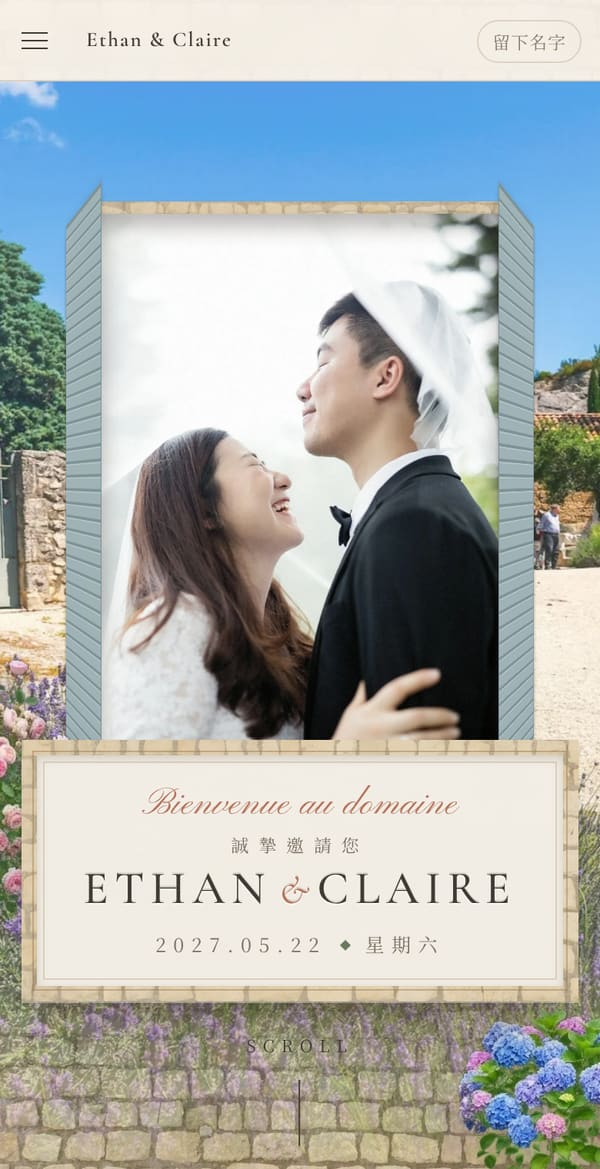
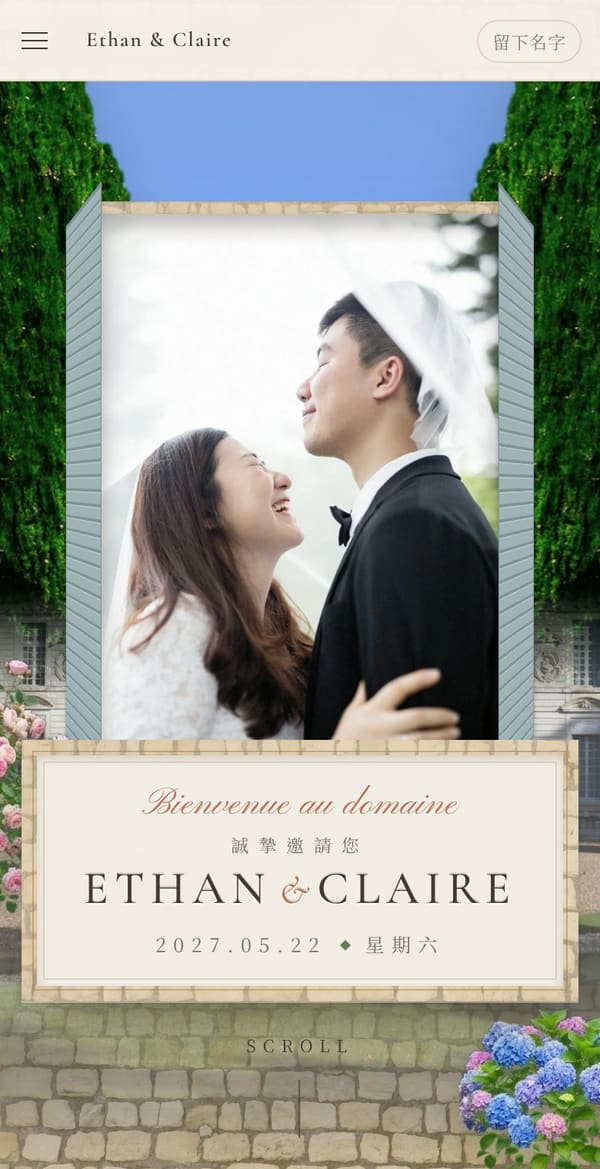
法式莊園：hero 改成遠景的莊園立面、兩側加柏樹；開場文字改放灰泥牌
- 遠景換成 Shalev Cohen 的莊園前庭照片（manor.webp），取代南法小鎮廣場
- 從原本小鎮照片裡把兩棵柏樹去背（cypress.webp），放在 hero 左右兩側
- 開場木門推開後，門後也是同一座莊園
- 開場的名字放進一塊灰泥牌，並讓莊園的門多停 1.1 秒，字淡入得更早，讀得完再往裡走
- README 素材表更新，移除不再使用的 village.webp

Claude-Session: https://claude.ai/code/session_01WAMHDvEXzDVD9sEfoDVAdb

Changed region(s): [[0.0, 0.0616, 1.0, 0.8931], [0.0, 0.7083, 0.9, 0.9855]]

diff --git a/public/css/openers/door.css b/public/css/openers/door.css
@@ -81,9 +81,9 @@
 .dr-gothic{--dr-accent:#7a5a3a;}
 /* ---- 莊園：全部是真的照片（見 README〈法式莊園的照片素材〉） ----
    法國南方小鎮的街角：石灰岩牆上一扇灰藍的木門、旁邊一扇百葉窗（eliza cemme／Unsplash）；
-   門從照片裡分離成自己的一層，推開之後門後就是大廳那一片南法小鎮的石頭廣場（Rich Martello／Unsplash） */
+   門從照片裡分離成自己的一層，推開之後門後就是大廳那一座莊園的前庭（Shalev Cohen／Unsplash） */
 .dr-manor{--dr-accent:#9a5a40;background:#cdbb9c;}
-.dr-manor .dr-land{background:#e8e2d4 url(../../img/manor/village.webp) 50% 55%/cover no-repeat;}
+.dr-manor .dr-land{background:#e8e2d4 url(../../img/manor/manor.webp) 50% 42%/cover no-repeat;}
 /* 兩旁：石灰岩的顏色，邊上暗一點；門那張照片的邊淡進來 */
 .dr-manor .dr-blur{position:absolute;inset:0;background:radial-gradient(70% 90% at 50% 45%,#e4d7be,#cdbb9a 70%,#b3a07f);}
 /* 推開門：陽光只輕輕亮一下，看得到門後的中庭 */
@@ -94,8 +94,8 @@
   -webkit-mask-image:linear-gradient(90deg,transparent,#000 7%,#000 93%,transparent);
           mask-image:linear-gradient(90deg,transparent,#000 7%,#000 93%,transparent);}
 @media (min-aspect-ratio:3/4){.dr-manor .dr-photo{height:100%;}}
-/* 門洞後面：南法小鎮的石頭廣場（跟 .dr-land 同一張，門推開就看得到） */
-.dr-manor .dr-behind{position:absolute;background:#e8e2d4 url(../../img/manor/village.webp) 40% 55%/auto 110% no-repeat;}
+/* 門洞後面：莊園的前庭與立面（跟 .dr-land 同一張，門推開就看得到正中間那一棟） */
+.dr-manor .dr-behind{position:absolute;background:#e8e2d4 url(../../img/manor/manor.webp) 50% 70%/auto 125% no-repeat;}
 .dr-manor .dr-scene{position:absolute;inset:0;background:url(../../img/manor/door-scene.webp) center/100% 100% no-repeat;}
 /* 木門：把手在左邊，繞著右邊的鉸鍊往裡推開 */
 .dr-manor .dr-opening{perspective:1600px;}
@@ -105,8 +105,16 @@
 .dr-host.dr-manor.is-open .dr-iron{transform:rotateY(-82deg);filter:brightness(.82);animation:dr-unlatch .35s ease;}
 /* 手機直立：門只佔下半部，字放到上面的天空 */
 @media (max-aspect-ratio:3/4){.dr-text{top:28%;}}
-/* 莊園的門在手機上從畫面 29% 開到 85%：字放進門洞的光裡，不要壓到門楣 */
-@media (max-aspect-ratio:3/4){.dr-manor .dr-text{top:40%;}}
+/* 莊園的字：石牆和門框的紋路太花，細的字浮在上面讀不清楚 ——
+   改成刻在一塊灰泥牌上（跟大廳的名牌同一個樣子），放在門洞下半段的草地前，上半段留給門後的莊園 */
+.dr-manor .dr-text{left:50%;right:auto;top:66%;transform:translate(-50%,-50%);width:max-content;max-width:calc(100vw - 32px);
+  gap:4px;padding:16px clamp(26px,4vw,44px) 14px;border:8px solid transparent;background:#f5efe3;
+  outline:1px solid rgba(150,120,80,.45);outline-offset:-6px;text-shadow:none;
+  box-shadow:inset 0 2px 6px rgba(80,60,30,.18),0 14px 34px rgba(50,36,20,.38),0 2px 6px rgba(50,36,20,.25);}
+.dr-host.dr-manor.is-open .dr-text{transition:opacity .8s ease .55s;}
+.dr-host.dr-manor.is-walking .dr-text{transition:opacity .5s ease 0s;}
+.dr-manor .dr-kicker{font-size:clamp(17px,2.2vw,21px);}
+.dr-manor .dr-date{color:rgba(46,42,36,.72);}
 /* 秘密花園在手機上，字落在門上面那一片深色的常春藤：改成淺色的字、深色的光暈 */
 @media (max-aspect-ratio:3/4){
   .dr-garden .dr-text{--dr-ink:#fbf8ef;--dr-accent:#f3d9e0;text-shadow:0 0 16px rgba(10,20,8,.95),0 1px 4px rgba(10,20,8,.85);}

diff --git a/public/css/lobby-manor.css b/public/css/lobby-manor.css
@@ -66,8 +66,9 @@ body[data-lobby="french-manor"] .bg-decor::after{content:'';position:absolute;in
 .fm-scene{position:absolute;inset:0;pointer-events:none;}
 /* 中庭與那層光：下緣淡掉，露出後面的石牆（鏡頭前的花不淡，壓在牆上） */
 .fm-court,.fm-veil{-webkit-mask-image:linear-gradient(#000 74%,transparent);mask-image:linear-gradient(#000 74%,transparent);}
-/* 遠景（Rich Martello／Unsplash）：南法小鎮的石頭廣場，碎石路一路往裡延伸到石屋與柏樹，前景一片薰衣草 */
-.fm-court{position:absolute;inset:0;background:#e8e2d4 url(../img/manor/village.webp) 50% 55%/cover no-repeat;
+/* 遠景（Shalev Cohen／Unsplash）：站在碎石前庭的另一頭看整座莊園 —— 對稱的石灰岩立面、石板屋頂，
+   前庭一排種在木箱裡的柑橘樹，退得夠遠才看得到整面牆的氣派 */
+.fm-court{position:absolute;inset:0;background:#e8e2d4 url(../img/manor/manor.webp) 50% 42%/cover no-repeat;
   transform-origin:50% 40%;transform:scale(calc(1.03 + var(--lp,0) * .1));}
 .fm-veil{position:absolute;inset:0;
   background:linear-gradient(180deg,rgba(243,238,229,.3),rgba(243,238,229,.12) 34%,rgba(243,238,229,.26) 70%);}
@@ -75,6 +76,12 @@ body[data-lobby="french-manor"] .bg-decor::after{content:'';position:absolute;in
 .fm-near{position:absolute;bottom:0;background:center bottom/contain no-repeat;
   filter:drop-shadow(0 10px 14px rgba(60,46,30,.28));transform:translateY(calc(var(--lp,0) * -36%));}
 .fm-near.n-hydrangea{right:-3%;height:36%;aspect-ratio:311/281;bottom:-3%;background-image:url(../img/manor/hydrangea-bush.webp);}
+/* 兩側高聳的地中海柏樹（從 Rich Martello 那張南法小鎮的照片裡去背），像站在前庭邊上、從兩棵柏樹中間望過去；
+   樹頂超出畫面，下緣在照片裡就淡掉了。右邊那棵是同一張左右翻過來 */
+.fm-near.n-cypress{top:-4%;bottom:auto;height:96%;aspect-ratio:420/800;background:url(../img/manor/cypress.webp) left top/100% 100% no-repeat;
+  filter:saturate(.82) brightness(1.03) drop-shadow(0 0 18px rgba(30,40,20,.18));}
+.fm-near.n-cypress.l{left:-3%;}
+.fm-near.n-cypress.r{right:-3%;scale:-1 1;}
 
 .fm-hero-body{position:relative;z-index:5;display:flex;flex-direction:column;align-items:center;text-align:center;
   padding:clamp(20px,5vh,56px) 20px clamp(56px,9vh,90px);transform:translateY(calc(var(--lp,0) * -40px));opacity:calc(1 - var(--lp,0) * 1.4);}
@@ -121,8 +128,11 @@ body[data-hero-name="cn"] .fm-hero .fm-names{font-family:'Noto Serif TC',serif;f
 @keyframes fm-rise-far{from{opacity:0;transform:translateY(40px);}}
 @keyframes fm-arrive{from{filter:brightness(1.25) saturate(.7);transform:scale(1.12);}}
 @media (max-width:640px){
-  .fm-court{background-position:40% 55%;}
+  .fm-court{background-position:50% 42%;}
   .fm-near.n-hydrangea{height:18%;right:-12%;}
+  .fm-near.n-cypress{height:66%;}
+  .fm-near.n-cypress.l{left:-26%;}
+  .fm-near.n-cypress.r{right:-26%;}
   .fm-hero .hashtags{display:none;}
 }
 

diff --git a/public/lobby-manor.html b/public/lobby-manor.html
@@ -27,7 +27,7 @@
 <link rel="preload" as="script" href="/js/common.js">
 <link rel="preload" as="script" href="/js/lobby-motion.js">
 <link rel="preload" as="script" href="/js/index.js">
-<link rel="preload" as="image" href="/img/manor/village.webp" type="image/webp">
+<link rel="preload" as="image" href="/img/manor/manor.webp" type="image/webp">
 <link rel="preconnect" href="https://fonts.googleapis.com">
 <link rel="preconnect" href="https://fonts.gstatic.com" crossorigin>
 <!-- 字體依版型不同，由 build-og（預產）或 site-context.js（執行期）依 TEMPLATES[x].fonts 補上 -->
@@ -93,7 +93,9 @@
       <div class="fm-scene" aria-hidden="true">
         <div class="fm-court"></div>
         <i class="fm-veil"></i>
-        <!-- 鏡頭前：右下一叢繡球花（去背），捲動時走得比遠景快（照片的前景本來就有一片薰衣草） -->
+        <!-- 鏡頭前：兩側高聳的柏樹、右下一叢繡球花（都是去背的真植物），捲動時走得比遠景快 -->
+        <i class="fm-near n-cypress l"></i>
+        <i class="fm-near n-cypress r"></i>
         <i class="fm-near n-hydrangea"></i>
       </div>
       <div class="fm-hero-body">

diff --git a/public/js/openers/door.js b/public/js/openers/door.js
@@ -381,9 +381,11 @@
       host.querySelector('.dr-world').style.transformOrigin =
         `${f(o.left - h.left + o.width / 2)}px ${f(o.top - h.top + o.height * .45)}px`;
       host.classList.add('is-open');
-      ctx.later(() => host.classList.add('is-walking'), T.open);
-      ctx.later(ctx.reveal, T.open + T.walk * .45);
-      ctx.later(ctx.done, T.open + T.walk + 500);
+      /* 莊園：門推開之後多停一下，讓灰泥牌上的名字讀得完再往裡走 */
+      const open = manor ? T.open + 1100 : T.open;
+      ctx.later(() => host.classList.add('is-walking'), open);
+      ctx.later(ctx.reveal, open + T.walk * .45);
+      ctx.later(ctx.done, open + T.walk + 500);
     });
   }
 

diff --git a/preview/french-manor.html b/preview/french-manor.html
@@ -84,7 +84,9 @@
       <div class="fm-scene" aria-hidden="true">
         <div class="fm-court"></div>
         <i class="fm-veil"></i>
-        <!-- 鏡頭前：右下一叢繡球花（去背），捲動時走得比遠景快（照片的前景本來就有一片薰衣草） -->
+        <!-- 鏡頭前：兩側高聳的柏樹、右下一叢繡球花（都是去背的真植物），捲動時走得比遠景快 -->
+        <i class="fm-near n-cypress l"></i>
+        <i class="fm-near n-cypress r"></i>
         <i class="fm-near n-hydrangea"></i>
       </div>
       <div class="fm-hero-body">

diff --git a/README.md b/README.md
@@ -323,7 +323,8 @@ HTML 裡直接寫 `{{couple}}`、`{{date}}`、`{{hashtag}}` 這類 token，
 > | 檔案 | 用在哪裡 | 原圖 | 怎麼處理的 |
 > |---|---|---|---|
 > | `manor/door-scene.webp`、`manor/door-leaf.webp` | 開場：南法小鎮街角，石灰岩牆上一扇灰藍的木門 | [石屋上一扇質樸的藍色木門](https://unsplash.com/photos/VJBz5nvw0j0)・eliza cemme | 裁掉上緣的三角旗；門板依顏色量出範圍，切成自己的一層（door-leaf，可以推開），門洞在 door-scene 裡挖成透明 |
-> | `manor/village.webp` | 大廳 hero 的遠景、開場門後看到的那一片 | [南法小鎮的石頭廣場與薰衣草](https://unsplash.com/photos/nYU7KC1BV1E)・Rich Martello | 縮圖、降一點彩度、稍微調亮 |
+> | `manor/manor.webp` | 大廳 hero 的遠景、開場門推開後看到的那一座莊園 | [前庭有修剪整齊樹木的莊園](https://unsplash.com/photos/aYA0TKXxcyw)・Shalev Cohen | 縮圖 |
+> | `manor/cypress.webp` | hero 兩側高聳的柏樹（右邊那棵是左右翻過來的同一張） | [南法小鎮的石頭廣場與薰衣草](https://unsplash.com/photos/nYU7KC1BV1E)・Rich Martello | 只取左邊的兩棵柏樹：依「比藍天、背後的樹綠多少」去背，右緣用手畫的範圍限制住，下緣淡掉 |
 > | `manor/arch-door.webp` | 「我們的故事」的背景 | [灰泥牆上的石拱門與壁燈](https://unsplash.com/photos/UpfOIuFOelI)・Lea Gindorf | 縮圖 |
 > | `manor/cottage.webp` | 倒數的背景 | [開滿玫瑰、有百葉窗的石屋](https://unsplash.com/photos/qs6RGMBaetQ)・Erwan Hesry | 縮圖、調亮、降一點彩度 |
 > | `manor/wall.webp` | 整頁的底：蜂蜜色的小石塊石灰岩牆、灰泥面板與窗的石框 | [小石塊砌成的石牆](https://unsplash.com/photos/ntNwMS0fWGk)・Angelo Casto | 顏色對齊 mood board 的石牆（每個色板的平均與對比）；錯位半張再淡淡混合，做成可以無縫平鋪的一塊 |
